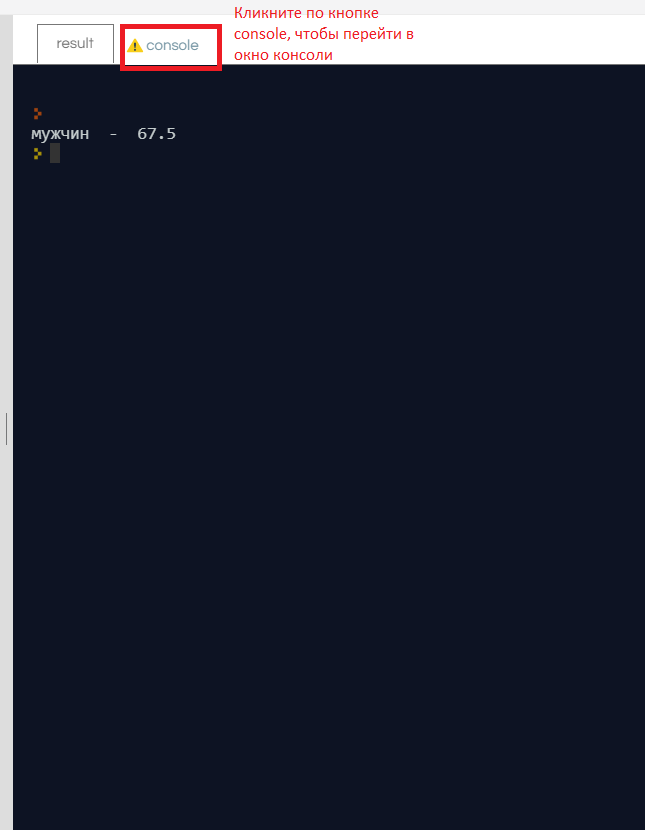
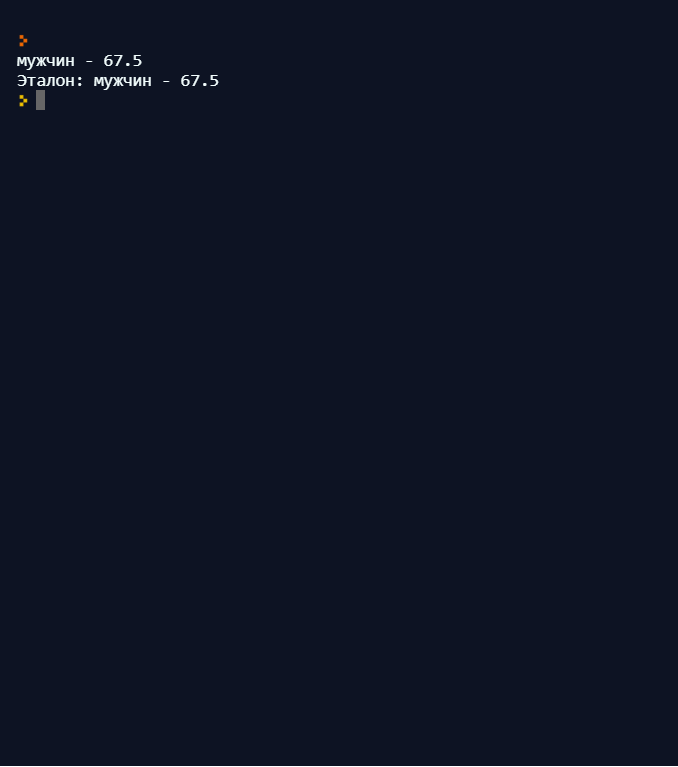
Исправила описание, Добавила скрин с двойным результатом вывода в консоль

Changed region(s): [[0.0, 0.0, 1.0, 1.0], [0.2171, 0.1499, 0.2791, 0.1799]]

diff --git a/talk/README.md b/talk/README.md
@@ -39,10 +39,28 @@
 let middleAge; 
 let genderName;
 ```
-Ваша задача — определить, какие значения присвоить каждой из них.
+Ваша задача — определить, какие значения присвоить каждой из них. 
+2. На месте коментария:
+```javascript
+/*
+  3. Присвойте переменной среднего возраста значение 77.6 - средний возраст для женщин
+  4. Присвойте переменной названия пола строку 'женщин'
+*/
+```
+напишите присваивание переменным `middleAge` и `genderName`, подходящие по смыслу значения из коментариев (77.6 и 'женщин').
+3. Аналогично на месте коментария:
+```javascript
+/*
+ 5. Присвойте переменной среднего возраста значение 67.5 - средний возраст для мужчин
+ 6. Присвойте переменной названия пола строку 'мужчин'
+*/
+```
+напишите присваивание переменным `middleAge` и `genderName`, подходящие по смыслу значения из коментариев (67.5 и 'мужчин').
 
 ## Задача №3
-1. Создайте новую переменную и поместите в нее результат склейки переменных `middleAge` и `genderName`. Воспользуйтесь функцией `console.log()`, чтобы вывести результат операции в консоль.
+1. Создайте переменную testGenderNameAndMiddleAge
+2. Присвойте переменной результат склейки переменных  middleAge, genderName, используйте тире в качестве разделителя (для склейки используйте оператор + )
+3. Выведите в консоль переменную testGenderNameAndMiddleAge
 
 Теперь вычисления должны быть правильными. Проверим это!
 1. Нажмите на кнопку `Run`.
@@ -55,6 +73,6 @@ let genderName;
 
 ![Результат второго домашнего задания](../assets/result-hw-2-1.png)
 
-5. Перейдите на вкладку консоль — там вы увидите сообщение, напечатанное функцией `console.log()`:
+5. Перейдите на вкладку консоль (для этого кликните на кнопку console над правой частью окна - там, где сейчас отображается веб-приложение) — Вы увидите два сообщения, напечатанных функцией `console.log()`. Сравните свой результат с эталонным (начинается с надписи "Эталон")
 
 ![Результат второго домашнего задания](../assets/result-hw-2-2.png)
